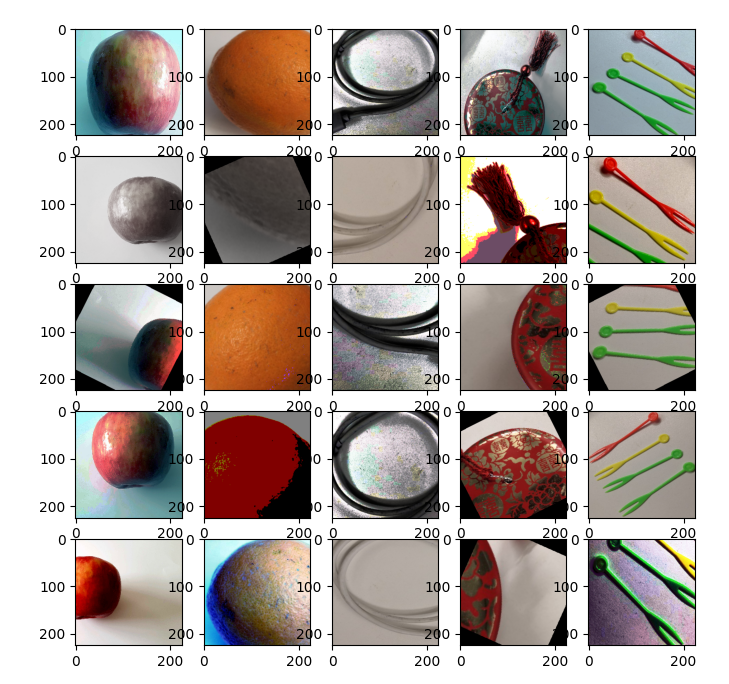
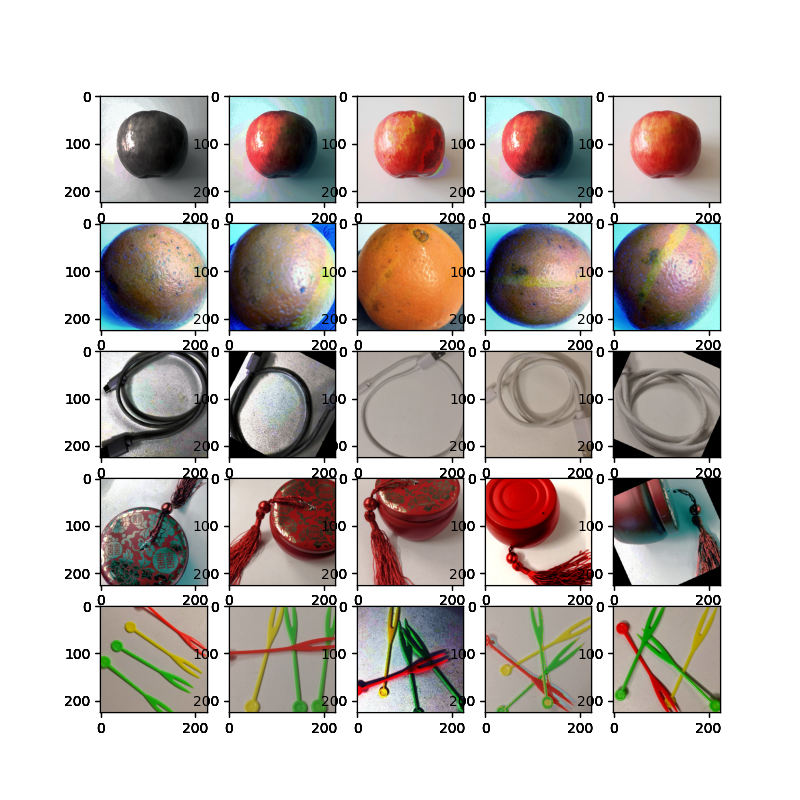
Optimize ImageNet Automatic Data Enhancement Tutorial

diff --git a/tutorials/experts/source_en/dataset/augment.md b/tutorials/experts/source_en/dataset/augment.md
@@ -285,7 +285,7 @@ Users can use the `RandomSelectSubpolicy` interface of the `mindspore.dataset.vi
                        batch_size=32, shuffle=False, num_samples=5):
         # create a train or eval imagenet2012 dataset for ResNet-50
         dataset = ds.ImageFolderDataset(dataset_path, num_parallel_workers=8,
-                                        shuffle=shuffle, num_samples=num_samples, decode=True)
+                                        shuffle=shuffle, decode=True)
 
         image_size = 224
 
@@ -298,6 +298,7 @@ Users can use the `RandomSelectSubpolicy` interface of the `mindspore.dataset.vi
         type_cast_op = transforms.TypeCast(ms.int32)
 
         # map images and labes
+        dataset = dataset.map(operations=[vision.Resize(256), vision.CenterCrop(image_size)], input_columns="image")
         dataset = dataset.map(operations=trans, input_columns="image")
         dataset = dataset.map(operations=type_cast_op, input_columns="label")
 
@@ -312,28 +313,29 @@ Users can use the `RandomSelectSubpolicy` interface of the `mindspore.dataset.vi
 
     ```python
     import matplotlib.pyplot as plt
+    from download import download
 
     # Define the path to image folder directory.
-    DATA_DIR = "/path/to/image_folder_directory"
-    dataset = create_dataset(dataset_path=DATA_DIR,
+    url = "https://mindspore-website.obs.cn-north-4.myhuaweicloud.com/notebook/datasets/ImageNetSimilar.tar.gz"
+    download(url, "./", kind="tar.gz", replace=True)
+    dataset = create_dataset(dataset_path="ImageNetSimilar",
                              train=True,
                              batch_size=5,
-                             shuffle=False,
-                             num_samples=5)
+                             shuffle=False)
 
     epochs = 5
     columns = 5
     rows = 5
-    step_num = 0
     fig = plt.figure(figsize=(8, 8))
     itr = dataset.create_dict_iterator()
 
     for ep_num in range(epochs):
+        step_num = 0
         for data in itr:
-            step_num += 1
             for index in range(rows):
-                fig.add_subplot(rows, columns, ep_num * rows + index + 1)
+                fig.add_subplot(rows, columns, step_num * rows + index + 1)
                 plt.imshow(data['image'].asnumpy()[index])
+            step_num += 1
     plt.show()
     ```
 
@@ -341,7 +343,7 @@ Users can use the `RandomSelectSubpolicy` interface of the `mindspore.dataset.vi
 
 ![augment](https://mindspore-website.obs.cn-north-4.myhuaweicloud.com/website-images/master/tutorials/experts/source_en/dataset/images/auto_augmentation.png)
 
-The running result can be seen that the augmentation effect of each image in the batch, the horizontal direction represents 5 images of 1 batch, and the vertical direction represents 5 batches.
+The running result can be seen that the augmentation effect of each image in the batch, the vertical direction represents 5 images of 1 batch, and the horizontal direction represents 5 batches.
 
 ## References
 
